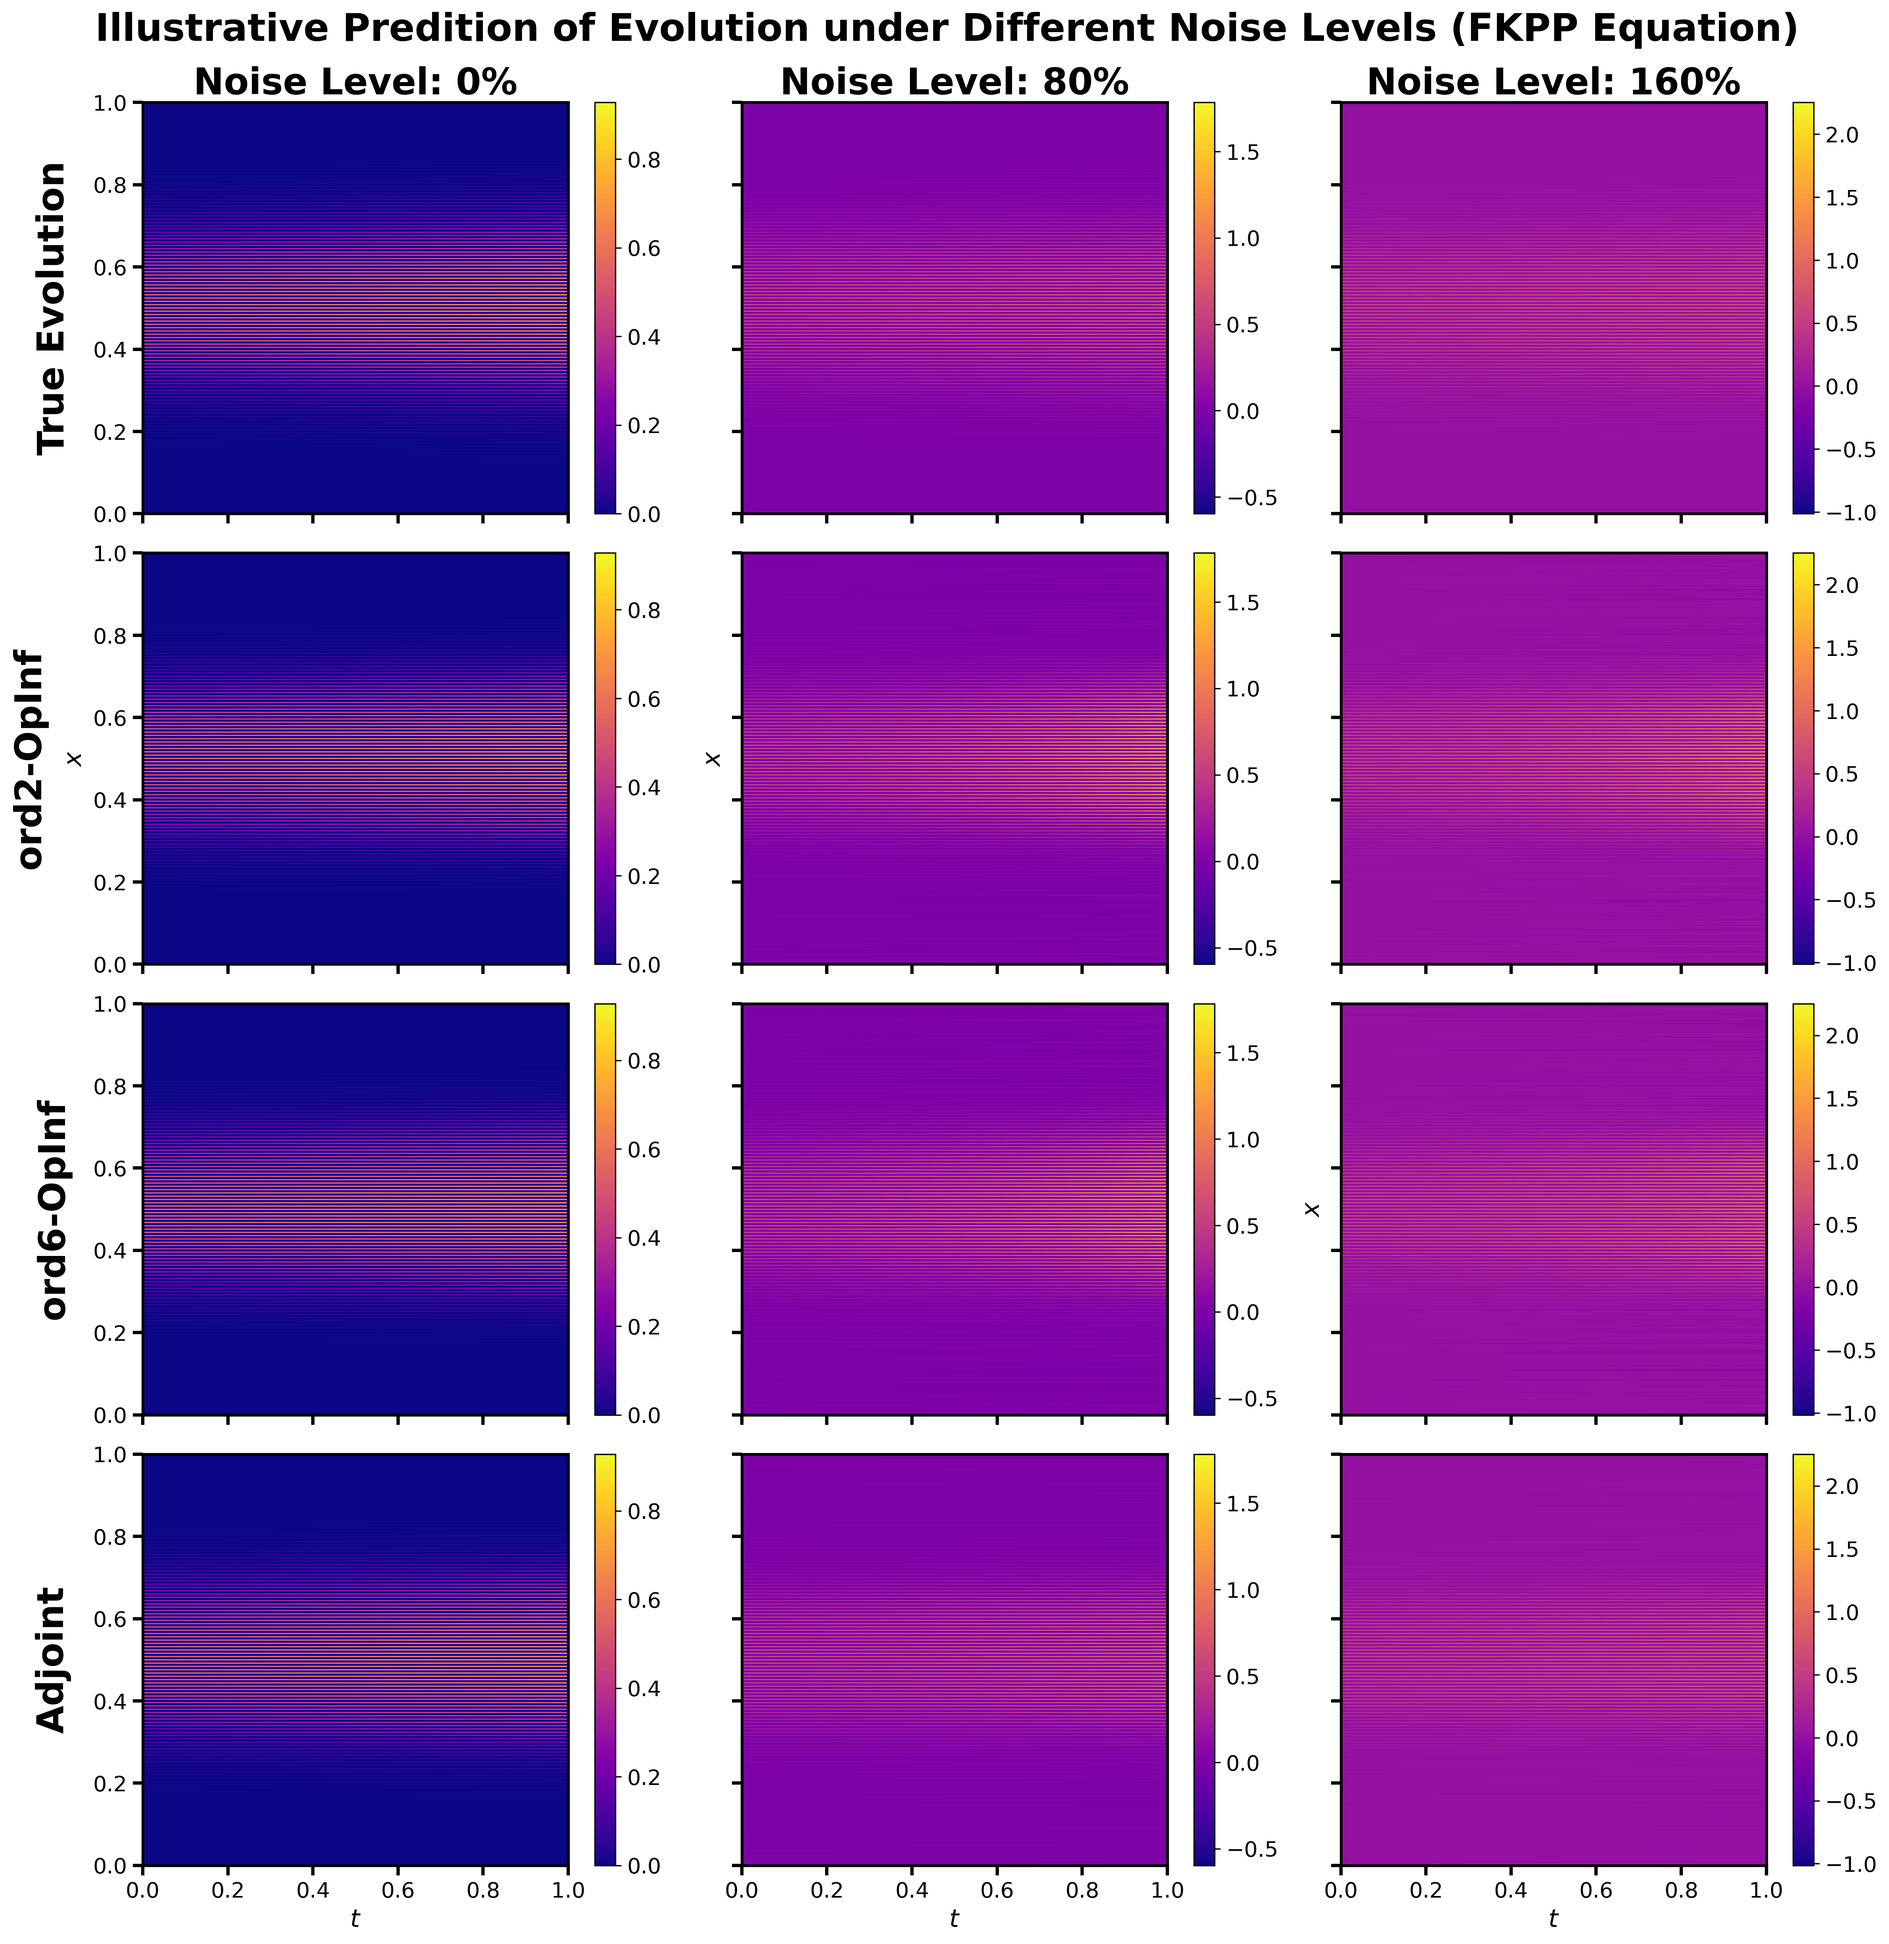
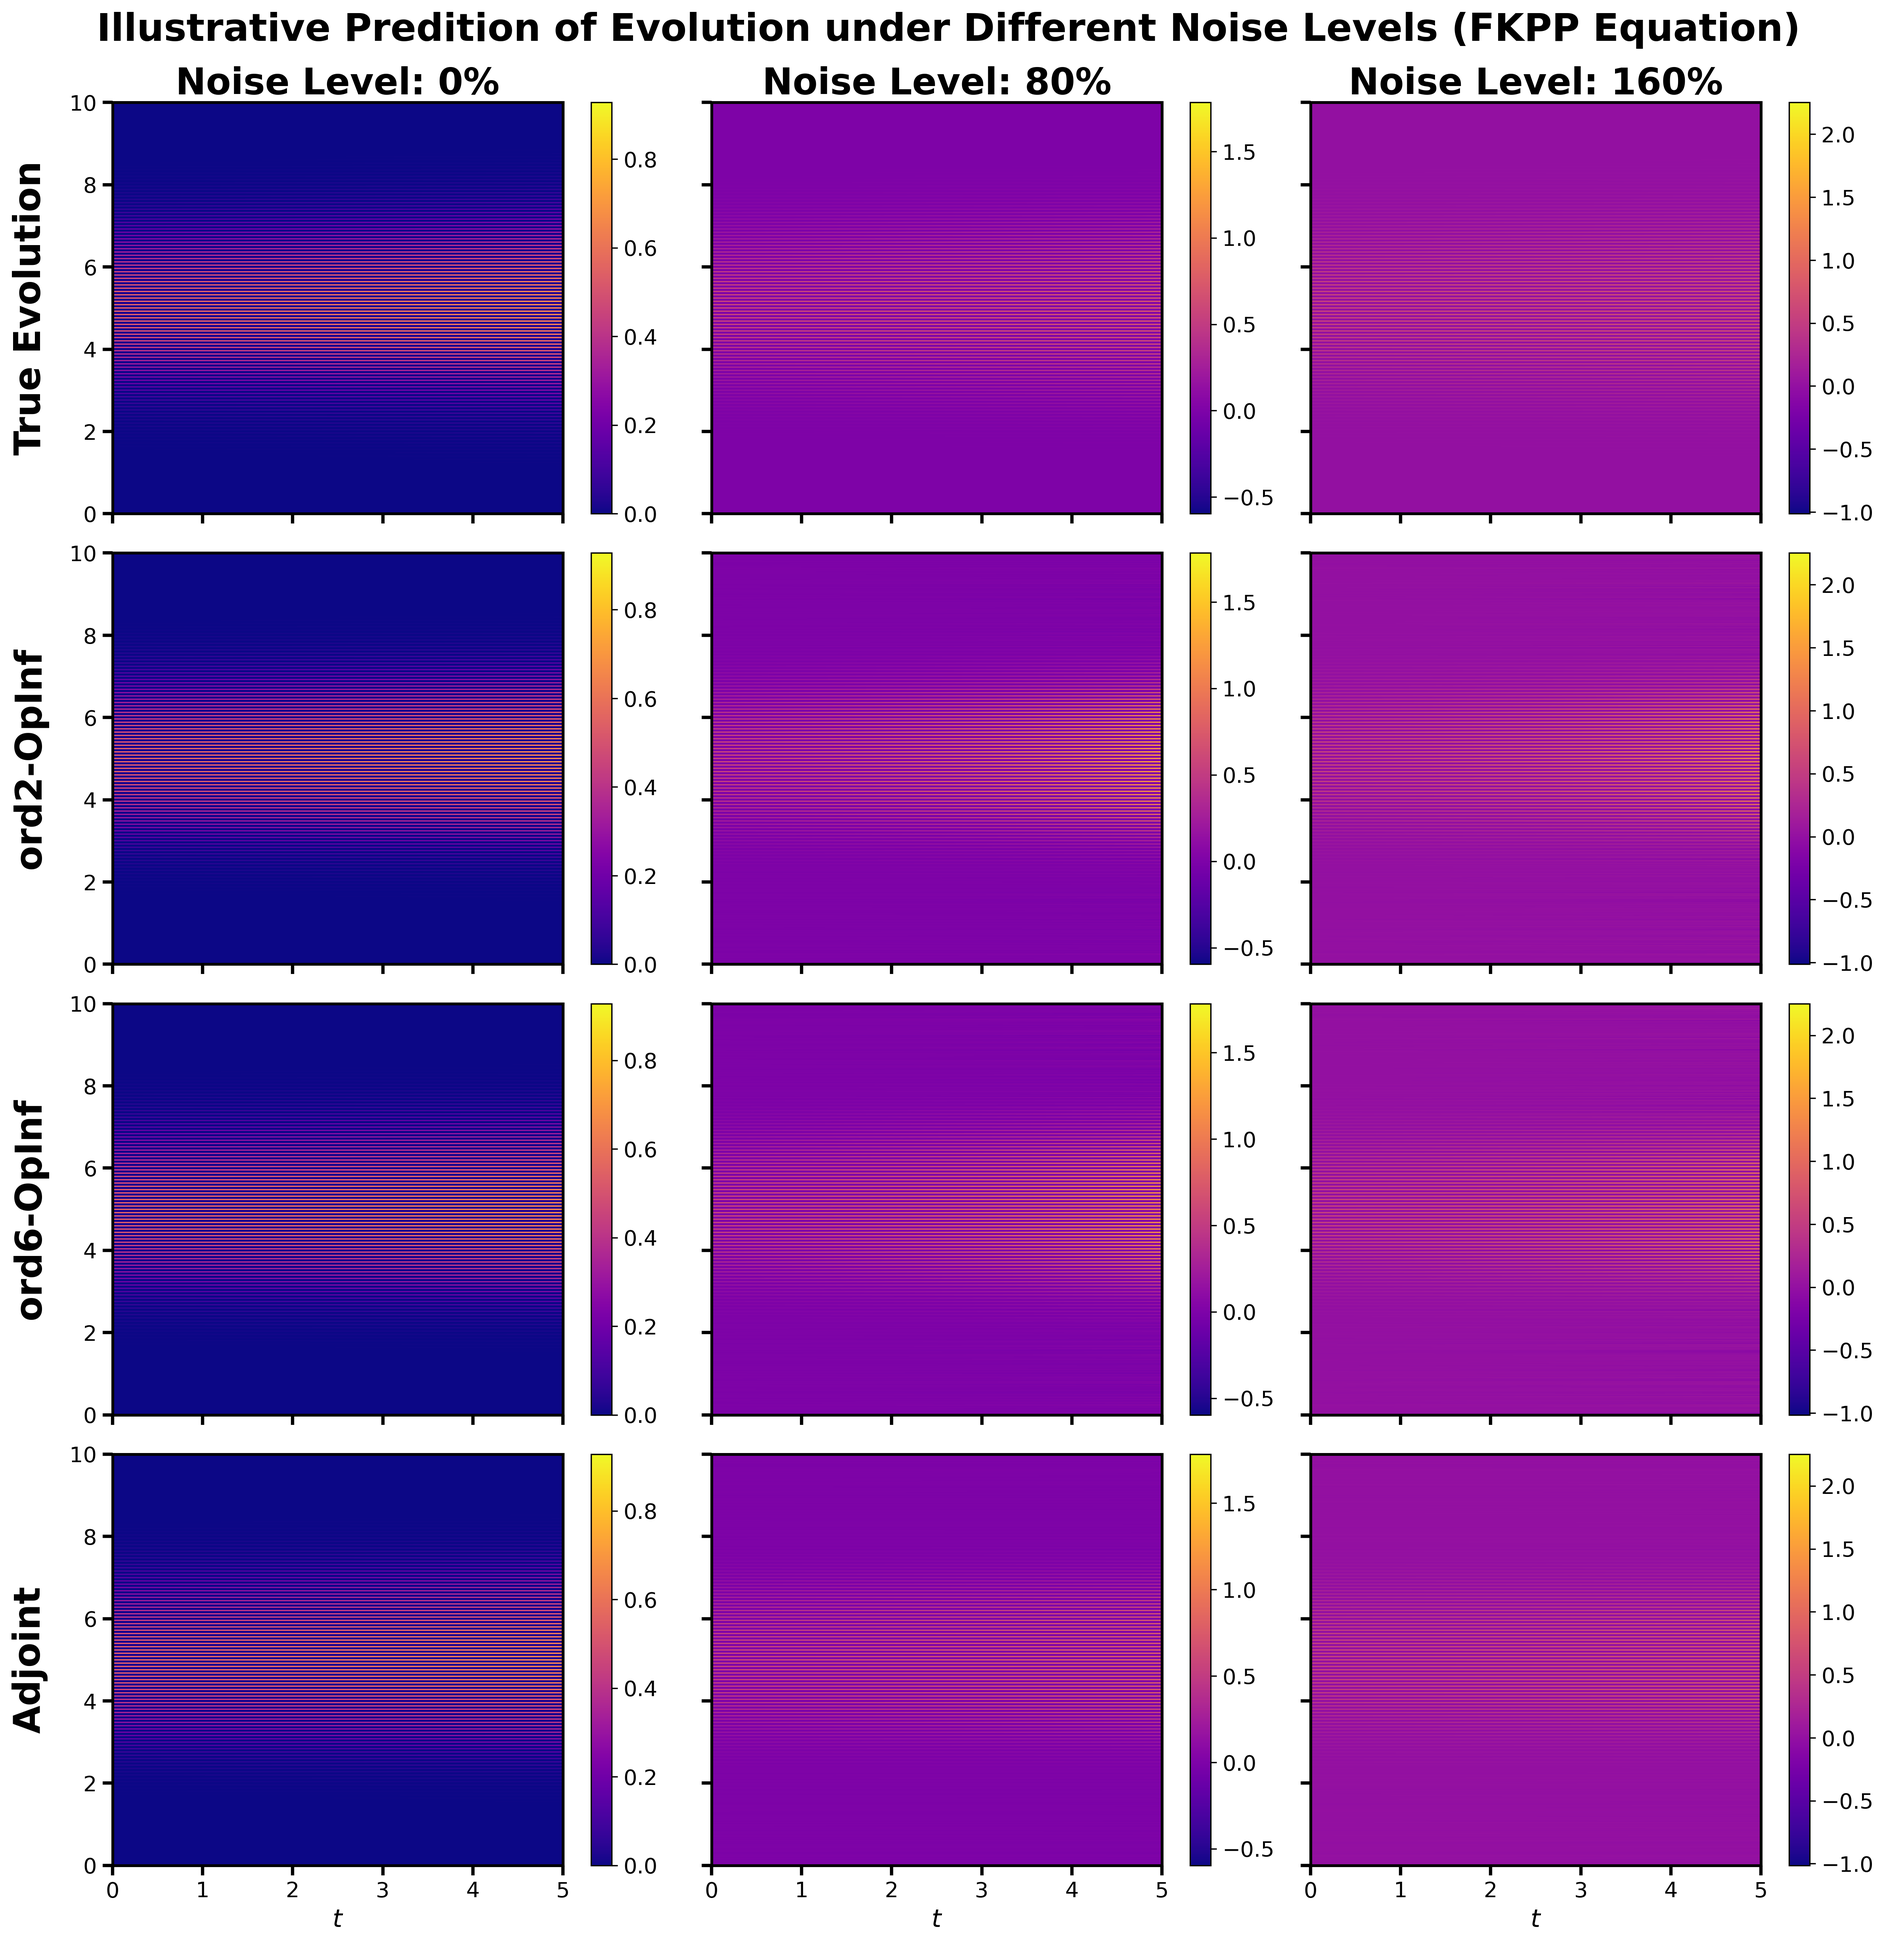
f

diff --git a/plot2.py b/plot2.py
@@ -265,7 +265,7 @@ rr = 1
 # Predicted state evolution
 im1 = axes[rr,cc].imshow(Q_pred_opinf2, vmin=vmin, vmax=vmax, aspect='auto', extent=[0, 1, 0, 1], origin='lower', cmap='plasma')
 # axes[rr,cc].set_xlabel(r"$t$", fontsize=15, fontweight='bold')
-axes[rr,cc].set_ylabel(r"$x$", fontsize=15, fontweight='bold')
+# axes[rr,cc].set_ylabel(r"$x$", fontsize=15, fontweight='bold')
 
 # Customize axes thickness
 axes[rr,cc].spines['left'].set_linewidth(1.7)
@@ -429,7 +429,7 @@ rr = 2
 # Predicted state evolution
 im2 = axes[rr,cc].imshow(Q_pred_opinf6, vmin=vmin, vmax=vmax, aspect='auto', extent=[0, 1, 0, 1], origin='lower', cmap='plasma')
 # axes[rr,cc].set_xlabel(r"$t$", fontsize=15, fontweight='bold')
-axes[rr,cc].set_ylabel(r"$x$", fontsize=15, fontweight='bold')
+# axes[rr,cc].set_ylabel(r"$x$", fontsize=15, fontweight='bold')
 
 # Customize axes thickness
 axes[rr,cc].spines['left'].set_linewidth(1.7)
@@ -508,7 +508,7 @@ plt.show()
 
 
 
-only_end=True
+only_end=False
 
 
 
@@ -598,9 +598,10 @@ cc = 0
 rr = 0
 # True state evolution
 if only_end:
-    im0 = axes[rr,cc].imshow(Q_original_test.reshape([125,125,151])[:,:,-1], vmin=vmin, vmax=vmax, aspect='auto', extent=[0, 1, 0, 1], origin='lower', cmap='plasma')
+    im0 = axes[rr,cc].imshow(Q_original_test.reshape([125,125,151])[:,:,-1], vmin=vmin, vmax=vmax, aspect='auto', extent=[0, 10, 0, 10], origin='lower', cmap='plasma')
+    axes[rr,cc].set_ylabel(r"$y$", fontsize=15, fontweight='bold')
 else:
-    im0 = axes[rr,cc].imshow(Q_original_test, vmin=vmin, vmax=vmax, aspect='auto', extent=[0, 1, 0, 1], origin='lower', cmap='plasma')
+    im0 = axes[rr,cc].imshow(Q_original_test, vmin=vmin, vmax=vmax, aspect='auto', extent=[0, 5, 0, 10], origin='lower', cmap='plasma')
 # axes[rr,cc].set_xlabel(r"$t$", fontsize=15, fontweight='bold')
 # axes[rr,cc].set_ylabel(r"$x$", fontsize=15, fontweight='bold')
 
@@ -623,11 +624,12 @@ cbar.ax.tick_params(labelsize=13)
 rr = 1
 # Predicted state evolution
 if only_end:
-    im1 = axes[rr,cc].imshow(Q_pred_opinf2.reshape([125,125,151])[:,:,-1], vmin=vmin, vmax=vmax, aspect='auto', extent=[0, 1, 0, 1], origin='lower', cmap='plasma')
+    im1 = axes[rr,cc].imshow(Q_pred_opinf2.reshape([125,125,151])[:,:,-1], vmin=vmin, vmax=vmax, aspect='auto', extent=[0, 10, 0, 10], origin='lower', cmap='plasma')
+    axes[rr,cc].set_ylabel(r"$y$", fontsize=15, fontweight='bold')
 else:
-    im1 = axes[rr,cc].imshow(Q_pred_opinf2, vmin=vmin, vmax=vmax, aspect='auto', extent=[0, 1, 0, 1], origin='lower', cmap='plasma')
+    im1 = axes[rr,cc].imshow(Q_pred_opinf2, vmin=vmin, vmax=vmax, aspect='auto', extent=[0, 5, 0, 10], origin='lower', cmap='plasma')
 # axes[rr,cc].set_xlabel(r"$t$", fontsize=15, fontweight='bold')
-axes[rr,cc].set_ylabel(r"$x$", fontsize=15, fontweight='bold')
+# axes[rr,cc].set_ylabel(r"$x$", fontsize=15, fontweight='bold')
 
 # Customize axes thickness
 axes[rr,cc].spines['left'].set_linewidth(1.7)
@@ -647,9 +649,10 @@ cbar.ax.tick_params(labelsize=13)
 rr = 2
 # Predicted state evolution
 if only_end:
-    im2 = axes[rr,cc].imshow(Q_pred_opinf6.reshape([125,125,151])[:,:,-1], vmin=vmin, vmax=vmax, aspect='auto', extent=[0, 1, 0, 1], origin='lower', cmap='plasma')
+    im2 = axes[rr,cc].imshow(Q_pred_opinf6.reshape([125,125,151])[:,:,-1], vmin=vmin, vmax=vmax, aspect='auto', extent=[0, 10, 0, 10], origin='lower', cmap='plasma')
+    axes[rr,cc].set_ylabel(r"$y$", fontsize=15, fontweight='bold')
 else:
-    im2 = axes[rr,cc].imshow(Q_pred_opinf6, vmin=vmin, vmax=vmax, aspect='auto', extent=[0, 1, 0, 1], origin='lower', cmap='plasma')
+    im2 = axes[rr,cc].imshow(Q_pred_opinf6, vmin=vmin, vmax=vmax, aspect='auto', extent=[0, 5, 0, 10], origin='lower', cmap='plasma')
 # axes[rr,cc].set_xlabel(r"$t$", fontsize=15, fontweight='bold')
 # axes[rr,cc].set_ylabel(r"$x$", fontsize=15, fontweight='bold')
 
@@ -671,10 +674,11 @@ cbar.ax.tick_params(labelsize=13)
 rr = 3
 # Predicted state evolution
 if only_end:
-    im3 = axes[rr,cc].imshow(Q_pred_adjoint.reshape([125,125,151])[:,:,-1], vmin=vmin, vmax=vmax, aspect='auto', extent=[0, 1, 0, 1], origin='lower', cmap='plasma')
+    im3 = axes[rr,cc].imshow(Q_pred_adjoint.reshape([125,125,151])[:,:,-1], vmin=vmin, vmax=vmax, aspect='auto', extent=[0, 10, 0, 10], origin='lower', cmap='plasma')
+    axes[rr,cc].set_xlabel(r"$x$", fontsize=15, fontweight='bold')
 else:
-    im3 = axes[rr,cc].imshow(Q_pred_adjoint, vmin=vmin, vmax=vmax, aspect='auto', extent=[0, 1, 0, 1], origin='lower', cmap='plasma')
-axes[rr,cc].set_xlabel(r"$t$", fontsize=15, fontweight='bold')
+    im3 = axes[rr,cc].imshow(Q_pred_adjoint, vmin=vmin, vmax=vmax, aspect='auto', extent=[0, 5, 0, 10], origin='lower', cmap='plasma')
+    axes[rr,cc].set_xlabel(r"$t$", fontsize=15, fontweight='bold')
 # axes[rr,cc].set_ylabel(r"$x$", fontsize=15, fontweight='bold')
 
 # Customize axes thickness
@@ -752,9 +756,9 @@ cc = 1
 rr = 0
 # True state evolution
 if only_end:
-    im0 = axes[rr,cc].imshow(Q_original_test.reshape([125,125,151])[:,:,-1], vmin=vmin, vmax=vmax, aspect='auto', extent=[0, 1, 0, 1], origin='lower', cmap='plasma')
+    im0 = axes[rr,cc].imshow(Q_original_test.reshape([125,125,151])[:,:,-1], vmin=vmin, vmax=vmax, aspect='auto', extent=[0, 10, 0, 10], origin='lower', cmap='plasma')
 else:
-    im0 = axes[rr,cc].imshow(Q_original_test, vmin=vmin, vmax=vmax, aspect='auto', extent=[0, 1, 0, 1], origin='lower', cmap='plasma')
+    im0 = axes[rr,cc].imshow(Q_original_test, vmin=vmin, vmax=vmax, aspect='auto', extent=[0, 5, 0, 10], origin='lower', cmap='plasma')
 # axes[rr,cc].set_xlabel(r"$t$", fontsize=15, fontweight='bold')
 # axes[rr,cc].set_ylabel(r"$x$", fontsize=15, fontweight='bold')
 
@@ -777,11 +781,11 @@ cbar.ax.tick_params(labelsize=13)
 rr = 1
 # Predicted state evolution
 if only_end:
-    im1 = axes[rr,cc].imshow(Q_pred_opinf2.reshape([125,125,151])[:,:,-1], vmin=vmin, vmax=vmax, aspect='auto', extent=[0, 1, 0, 1], origin='lower', cmap='plasma')
+    im1 = axes[rr,cc].imshow(Q_pred_opinf2.reshape([125,125,151])[:,:,-1], vmin=vmin, vmax=vmax, aspect='auto', extent=[0, 10, 0, 10], origin='lower', cmap='plasma')
 else:
-    im1 = axes[rr,cc].imshow(Q_pred_opinf2, vmin=vmin, vmax=vmax, aspect='auto', extent=[0, 1, 0, 1], origin='lower', cmap='plasma')
+    im1 = axes[rr,cc].imshow(Q_pred_opinf2, vmin=vmin, vmax=vmax, aspect='auto', extent=[0, 5, 0, 10], origin='lower', cmap='plasma')
 # axes[rr,cc].set_xlabel(r"$t$", fontsize=15, fontweight='bold')
-axes[rr,cc].set_ylabel(r"$x$", fontsize=15, fontweight='bold')
+# axes[rr,cc].set_ylabel(r"$x$", fontsize=15, fontweight='bold')
 
 # Customize axes thickness
 axes[rr,cc].spines['left'].set_linewidth(1.7)
@@ -801,9 +805,9 @@ cbar.ax.tick_params(labelsize=13)
 rr = 2
 # Predicted state evolution
 if only_end:
-    im2 = axes[rr,cc].imshow(Q_pred_opinf6.reshape([125,125,151])[:,:,-1], vmin=vmin, vmax=vmax, aspect='auto', extent=[0, 1, 0, 1], origin='lower', cmap='plasma')
+    im2 = axes[rr,cc].imshow(Q_pred_opinf6.reshape([125,125,151])[:,:,-1], vmin=vmin, vmax=vmax, aspect='auto', extent=[0, 10, 0, 10], origin='lower', cmap='plasma')
 else:
-    im2 = axes[rr,cc].imshow(Q_pred_opinf6, vmin=vmin, vmax=vmax, aspect='auto', extent=[0, 1, 0, 1], origin='lower', cmap='plasma')
+    im2 = axes[rr,cc].imshow(Q_pred_opinf6, vmin=vmin, vmax=vmax, aspect='auto', extent=[0, 5, 0, 10], origin='lower', cmap='plasma')
 # axes[rr,cc].set_xlabel(r"$t$", fontsize=15, fontweight='bold')
 # axes[rr,cc].set_ylabel(r"$x$", fontsize=15, fontweight='bold')
 
@@ -825,10 +829,11 @@ cbar.ax.tick_params(labelsize=13)
 rr = 3
 # Predicted state evolution
 if only_end:
-    im3 = axes[rr,cc].imshow(Q_pred_adjoint.reshape([125,125,151])[:,:,-1], vmin=vmin, vmax=vmax, aspect='auto', extent=[0, 1, 0, 1], origin='lower', cmap='plasma')
+    im3 = axes[rr,cc].imshow(Q_pred_adjoint.reshape([125,125,151])[:,:,-1], vmin=vmin, vmax=vmax, aspect='auto', extent=[0, 10, 0, 10], origin='lower', cmap='plasma')
+    axes[rr,cc].set_xlabel(r"$x$", fontsize=15, fontweight='bold')
 else:
-    im3 = axes[rr,cc].imshow(Q_pred_adjoint, vmin=vmin, vmax=vmax, aspect='auto', extent=[0, 1, 0, 1], origin='lower', cmap='plasma')
-axes[rr,cc].set_xlabel(r"$t$", fontsize=15, fontweight='bold')
+    im3 = axes[rr,cc].imshow(Q_pred_adjoint, vmin=vmin, vmax=vmax, aspect='auto', extent=[0, 5, 0, 10], origin='lower', cmap='plasma')
+    axes[rr,cc].set_xlabel(r"$t$", fontsize=15, fontweight='bold')
 # axes[rr,cc].set_ylabel(r"$x$", fontsize=15, fontweight='bold')
 
 # Customize axes thickness
@@ -907,9 +912,9 @@ cc = 2
 rr = 0
 # True state evolution
 if only_end:
-    im0 = axes[rr,cc].imshow(Q_original_test.reshape([125,125,151])[:,:,-1], vmin=vmin, vmax=vmax, aspect='auto', extent=[0, 1, 0, 1], origin='lower', cmap='plasma')
+    im0 = axes[rr,cc].imshow(Q_original_test.reshape([125,125,151])[:,:,-1], vmin=vmin, vmax=vmax, aspect='auto', extent=[0, 10, 0, 10], origin='lower', cmap='plasma')
 else:
-    im0 = axes[rr,cc].imshow(Q_original_test, vmin=vmin, vmax=vmax, aspect='auto', extent=[0, 1, 0, 1], origin='lower', cmap='plasma')
+    im0 = axes[rr,cc].imshow(Q_original_test, vmin=vmin, vmax=vmax, aspect='auto', extent=[0, 5, 0, 10], origin='lower', cmap='plasma')
 # axes[rr,cc].set_xlabel(r"$t$", fontsize=15, fontweight='bold')
 # axes[rr,cc].set_ylabel(r"$x$", fontsize=15, fontweight='bold')
 
@@ -932,9 +937,9 @@ cbar.ax.tick_params(labelsize=13)
 rr = 1
 # Predicted state evolution
 if only_end:
-    im1 = axes[rr,cc].imshow(Q_pred_opinf2.reshape([125,125,151])[:,:,-1], vmin=vmin, vmax=vmax, aspect='auto', extent=[0, 1, 0, 1], origin='lower', cmap='plasma')
+    im1 = axes[rr,cc].imshow(Q_pred_opinf2.reshape([125,125,151])[:,:,-1], vmin=vmin, vmax=vmax, aspect='auto', extent=[0, 10, 0, 10], origin='lower', cmap='plasma')
 else:
-    im1 = axes[rr,cc].imshow(Q_pred_opinf2, vmin=vmin, vmax=vmax, aspect='auto', extent=[0, 1, 0, 1], origin='lower', cmap='plasma')
+    im1 = axes[rr,cc].imshow(Q_pred_opinf2, vmin=vmin, vmax=vmax, aspect='auto', extent=[0, 5, 0, 10], origin='lower', cmap='plasma')
 # axes[rr,cc].set_xlabel(r"$t$", fontsize=15, fontweight='bold')
 # axes[rr,cc].set_ylabel(r"$x$", fontsize=15, fontweight='bold')
 
@@ -956,11 +961,11 @@ cbar.ax.tick_params(labelsize=13)
 rr = 2
 # Predicted state evolution
 if only_end:
-    im2 = axes[rr,cc].imshow(Q_pred_opinf6.reshape([125,125,151])[:,:,-1], vmin=vmin, vmax=vmax, aspect='auto', extent=[0, 1, 0, 1], origin='lower', cmap='plasma')
+    im2 = axes[rr,cc].imshow(Q_pred_opinf6.reshape([125,125,151])[:,:,-1], vmin=vmin, vmax=vmax, aspect='auto', extent=[0, 10, 0, 10], origin='lower', cmap='plasma')
 else:
-    im2 = axes[rr,cc].imshow(Q_pred_opinf6, vmin=vmin, vmax=vmax, aspect='auto', extent=[0, 1, 0, 1], origin='lower', cmap='plasma')
+    im2 = axes[rr,cc].imshow(Q_pred_opinf6, vmin=vmin, vmax=vmax, aspect='auto', extent=[0, 5, 0, 10], origin='lower', cmap='plasma')
 # axes[rr,cc].set_xlabel(r"$t$", fontsize=15, fontweight='bold')
-axes[rr,cc].set_ylabel(r"$x$", fontsize=15, fontweight='bold')
+# axes[rr,cc].set_ylabel(r"$x$", fontsize=15, fontweight='bold')
 
 # Customize axes thickness
 axes[rr,cc].spines['left'].set_linewidth(1.7)
@@ -979,10 +984,11 @@ cbar.ax.tick_params(labelsize=13)
 rr = 3
 # Predicted state evolution
 if only_end:
-    im3 = axes[rr,cc].imshow(Q_pred_adjoint.reshape([125,125,151])[:,:,-1], vmin=vmin, vmax=vmax, aspect='auto', extent=[0, 1, 0, 1], origin='lower', cmap='plasma')
+    im3 = axes[rr,cc].imshow(Q_pred_adjoint.reshape([125,125,151])[:,:,-1], vmin=vmin, vmax=vmax, aspect='auto', extent=[0, 10, 0, 10], origin='lower', cmap='plasma')
+    axes[rr,cc].set_xlabel(r"$x$", fontsize=15, fontweight='bold')
 else:
-    im3 = axes[rr,cc].imshow(Q_pred_adjoint, vmin=vmin, vmax=vmax, aspect='auto', extent=[0, 1, 0, 1], origin='lower', cmap='plasma')
-axes[rr,cc].set_xlabel(r"$t$", fontsize=15, fontweight='bold')
+    im3 = axes[rr,cc].imshow(Q_pred_adjoint, vmin=vmin, vmax=vmax, aspect='auto', extent=[0, 5, 0, 10], origin='lower', cmap='plasma')
+    axes[rr,cc].set_xlabel(r"$t$", fontsize=15, fontweight='bold')
 # axes[rr,cc].set_ylabel(r"$x$", fontsize=15, fontweight='bold')
 
 # Customize axes thickness
